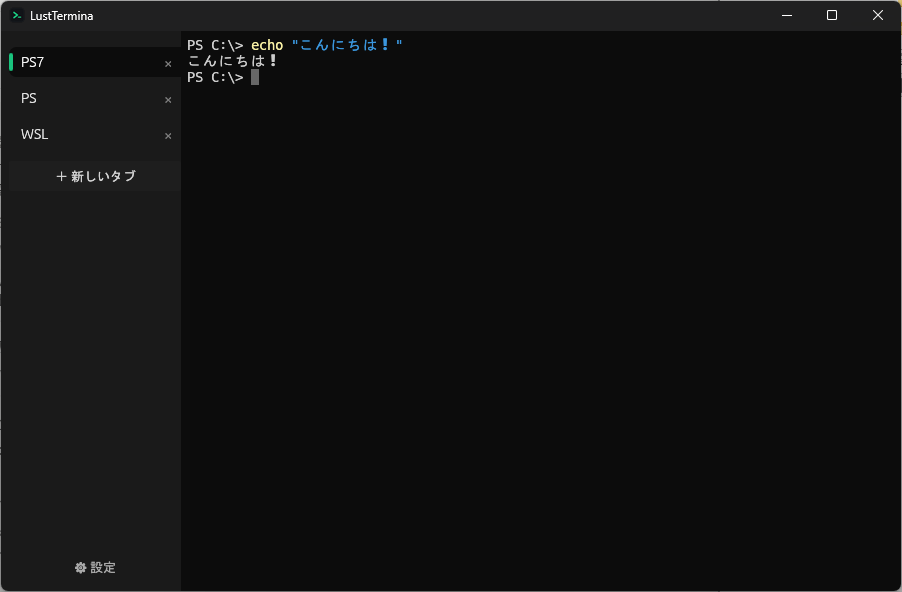
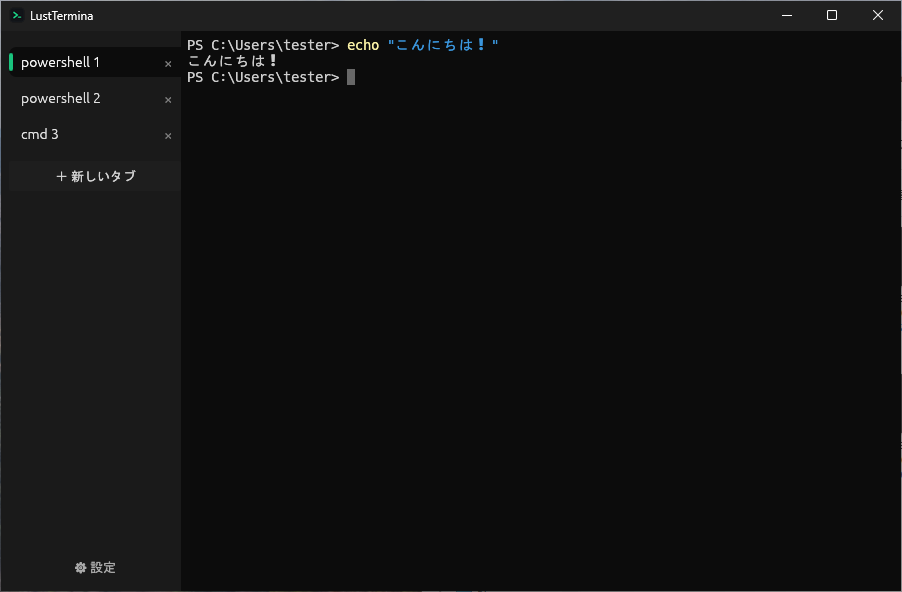
Refresh README screenshots from a clean VM and add v0.2.x shots
- Recapture every screenshot in a clean VM (neutral "tester" user, no
  local paths) at a consistent window size.
- Add a tab-panel left/right placement pair, the System settings tab,
  and the update-aware installer dialog to the README.
- Keep a dedicated Japanese screenshot for folder browsers.
- Fix the red-tab alt text (drop WSL) and note the shell list shows only
  installed shells.
- Add assets/screenshots/extra/ with the remaining captures, named.

diff --git a/README.md b/README.md
@@ -23,9 +23,15 @@
 
 | | |
 |:--:|:--:|
-| <img src="assets/screenshots/tab-green.png" width="380" alt="緑に色分けしたタブ"> | <img src="assets/screenshots/tab-red.png" width="380" alt="赤に色分けしたタブ（WSL）"> |
+| <img src="assets/screenshots/tab-green.png" width="380" alt="緑に色分けしたタブ"> | <img src="assets/screenshots/tab-red.png" width="380" alt="赤に色分けしたタブ"> |
 
-**色の設定 ／ 対応シェル** — 色はパレットから選択（「起動タブに追加」で起動構成にも保存）。対応シェルは PowerShell 7・Windows PowerShell・コマンドプロンプト・VS Developer・Git Bash・WSL をアイコン付きで選べます。
+**タブパネルは左右どちらにも** — タブの列を好みの側に配置できます。
+
+| | |
+|:--:|:--:|
+| <img src="assets/screenshots/panel-left.png" width="380" alt="タブパネルを左に配置"> | <img src="assets/screenshots/panel-right.png" width="380" alt="タブパネルを右に配置"> |
+
+**色の設定 ／ 対応シェル** — 色はパレットから選択（「起動タブに追加」で起動構成にも保存）。対応シェルは PowerShell 7・Windows PowerShell・コマンドプロンプト・VS Developer・Git Bash・WSL をアイコン付きで選べます（一覧に出るのは実際に導入済みのシェルです）。
 
 | | |
 |:--:|:--:|
@@ -35,9 +41,17 @@
 
 <img src="assets/screenshots/startup-tabs.png" width="720" alt="起動タブの編集画面">
 
-**日本語の表示・入力にも対応**
+**日本語の表示・入力にも対応** — IME での日本語入力、日本語の表示どちらにも対応しています。
 
 <img src="assets/screenshots/japanese.png" width="600" alt="日本語の表示">
+
+**システム設定** — 現在のバージョン、設定データの管理（データフォルダを開く／初期化）、アンインストールをまとめています。
+
+<img src="assets/screenshots/system-tab.png" width="720" alt="システムタブ（バージョン・データ・アンインストール）">
+
+**インストーラ（更新対応）** — 配布 exe を起動すると導入先（このユーザー専用／PC 全体）を選べます。導入済みなら現在の版を検出して「更新／再インストール」を出し分けます。
+
+<img src="assets/screenshots/installer.png" width="520" alt="更新対応インストーラのダイアログ">
 
 ## 動作環境
 
